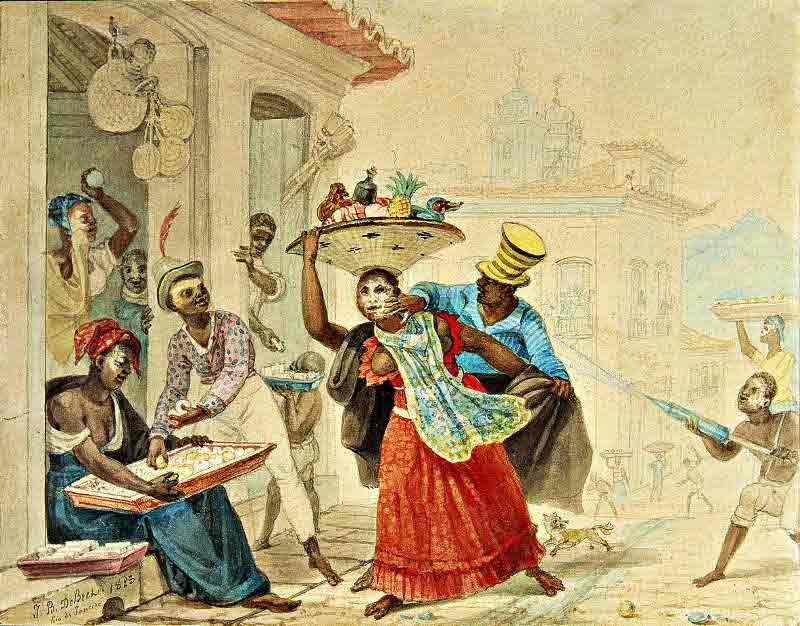
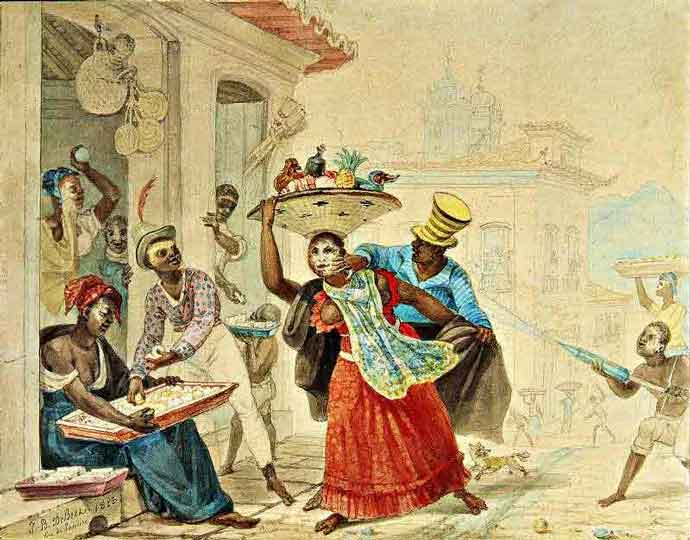
Ajuste gerais
@betosalgado  adicionado cores e formatação titulo

@pemoraes Cor padrão no divisor

@bruna2802 Foto Alterada

diff --git a/site/css/custom.css b/site/css/custom.css
@@ -825,3 +825,26 @@ footer .footer-mapa:first-child::after {
     border-left: 8px solid rgba(48, 48, 48, 0.14);;
     padding-left: 20px;
 }
+
+/* Academeia de Letras  
+–––––––––––––––––––––––––––––––––––––––––––––––––– */
+.AC.divisor {
+    height: 1px;
+    background-color: rgba(48, 48, 48, 0.14);
+    position: relative;
+    bottom: 15px;
+    margin-bottom: 3rem;
+    width: 100%;
+}
+.AC.divisor::after {
+    content: "";
+    display: block;
+    position: relative;
+    margin: 0 auto;
+    height: 0.5rem;
+    background-color:gray ;
+    width: 26%;
+    bottom: 0.4rem;
+    margin-top: 30px;
+}
+

diff --git a/site/css/romantismo.css b/site/css/romantismo.css
@@ -1,3 +1,6 @@
+.breadcrumb li a {
+    color:darkred ! important;
+ }
 
 article p, aside p, section p {
     font-family: 'Zilla Slab', serif;
@@ -278,3 +281,4 @@ article p, aside p, section p {
     }
 
 }
+

diff --git a/site/css/mapa.css b/site/css/mapa.css
@@ -59,3 +59,7 @@
     height: 30px;
     font-size: 1em;
 }
+
+.titulo {
+    margin-bottom: 3rem;
+}

diff --git a/site/includes/quem-somos-content.php b/site/includes/quem-somos-content.php
@@ -49,7 +49,7 @@ quemSomos(
     // Cargo
     'Designer Gráfico',
     // Descriçao pessoal
-    'Fascinado por D.I.Y, técnico em eletrônica nas horas vagas, formado em Redes de Computadores e responsável pela escolha tipográfica do portal',
+    'Fascinado por D.I.Y, técnico em eletrônica nas horas vagas, formado em Redes de Computadores e responsável pela escolha tipográfica',
     // Responsabilidades
     '<a href="simbolismo-contexto-historico.php">Simbolismo</a> e <a href="quem-somos.php">Quem Somos </a>'
 );

diff --git a/site/academia.php b/site/academia.php
@@ -32,7 +32,7 @@
     –––––––––––––––––––––––––––––––––––––––––––––––––– -->
     <article class="section">
         <h1 class="titulo no-space text-center">Academia Brasileira de Letras</h1>
-        <div class="divisor"></div>
+        <div class=" AC divisor"></div>
 
         <div class="container">
             <div class="row">

diff --git a/site/includes/mapa-content.php b/site/includes/mapa-content.php
@@ -2,7 +2,7 @@
     <div class="row text-left">
         <div class="col-xs-12 mp-mapa">
             <div class="col-xs-12 mp-home">
-                <h2>Navegue no Brasil literário</h2>
+                <h2 class="titulo">Navegue no Brasil literário</h2>
                 <div class="QM divisor"></div>
             </div>
             <div class="col-xs-12 mp-escolasgeral">

diff --git a/site/romantismo-autor-destaque.php b/site/romantismo-autor-destaque.php
@@ -12,6 +12,7 @@
     <link rel="stylesheet" href="css/romantismo.css">
     <?php include 'includes/estrutura/head.php'; ?>
     
+    
 </head>
 
 <body>
